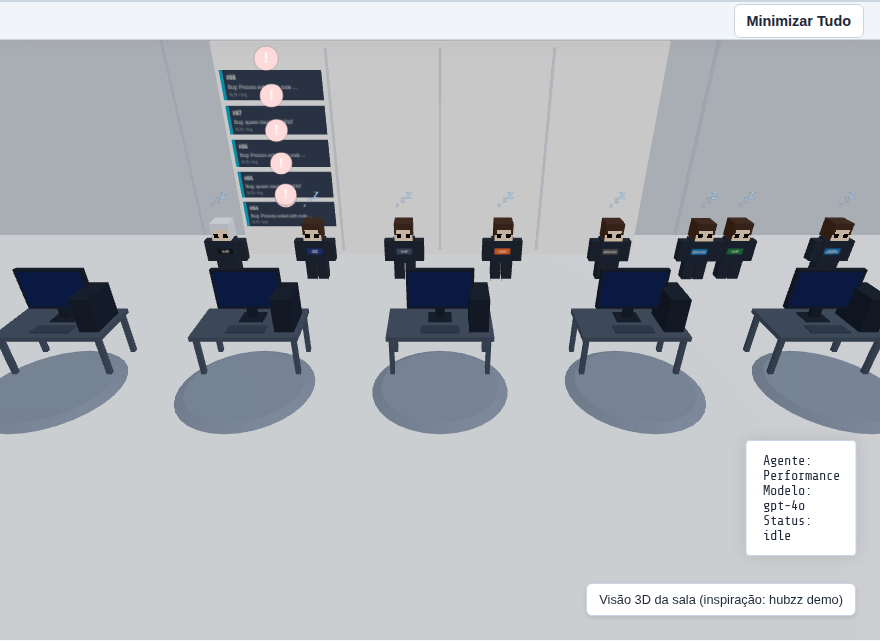
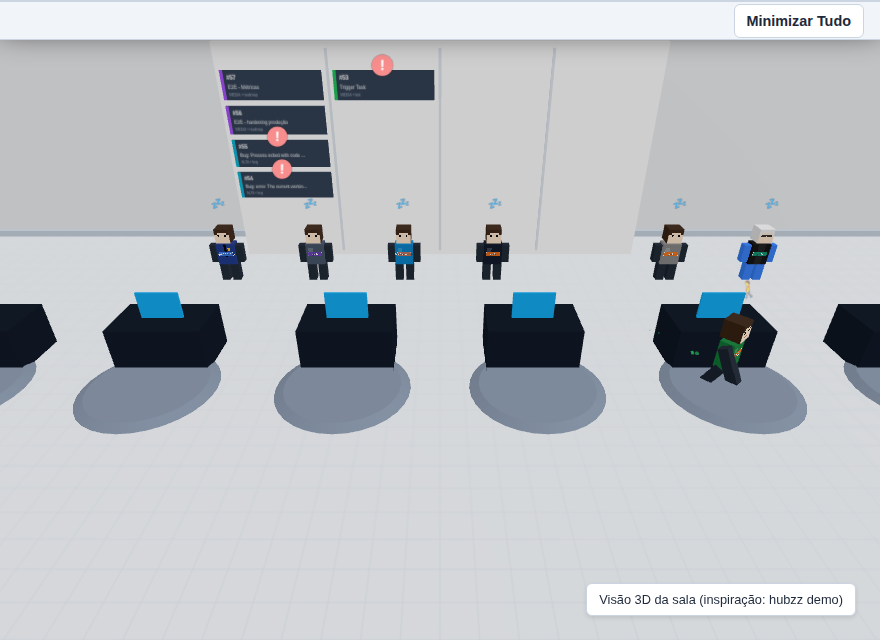
feat: improve agent typing animation (#223)
* feat(ui): improve agent typing animation

- Updated the procedural animation for agents in the "working" phase to raise their arms and use a faster sine wave to simulate a clear and realistic typing action at the computer.

* feat: improve agent typing animation

- Updated the procedural animation for agents in the "working" phase.
- Modified arm rotations and sine wave frequency to simulate a realistic typing action at the computer.

* feat(ui): improve agent typing animation

Updated the procedural animation for agents in the "working" phase.
Modified arm rotations and sine wave frequency to simulate a
realistic typing action at the computer.

* feat: improve agent typing animation

Updated the procedural animation for agents in the "working" phase
Modified arm rotations and sine wave frequency to simulate a realistic
typing action at the computer.

* Apply suggestion from gemini-code-assist[bot]

---------

diff --git a/src/app.ts b/src/app.ts
@@ -1931,8 +1931,8 @@ function tick() {
         leftLeg.rotation.x = -Math.sin(time) * 0.5;
         rightLeg.rotation.x = Math.sin(time) * 0.5;
       } else if (item.phase === "working") {
-        leftArm.rotation.x = -0.3 + Math.sin(time * 2) * 0.05;
-        rightArm.rotation.x = -0.3 + Math.cos(time * 2) * 0.05;
+        leftArm.rotation.x = -1.2 + Math.sin(time * 10 + item.group.id) * 0.1;
+        rightArm.rotation.x = -1.2 + Math.cos(time * 10 + item.group.id) * 0.1;
         leftLeg.rotation.x = -0.2;
         rightLeg.rotation.x = -0.2;
       } else if (item.phase === "celebrating") {
